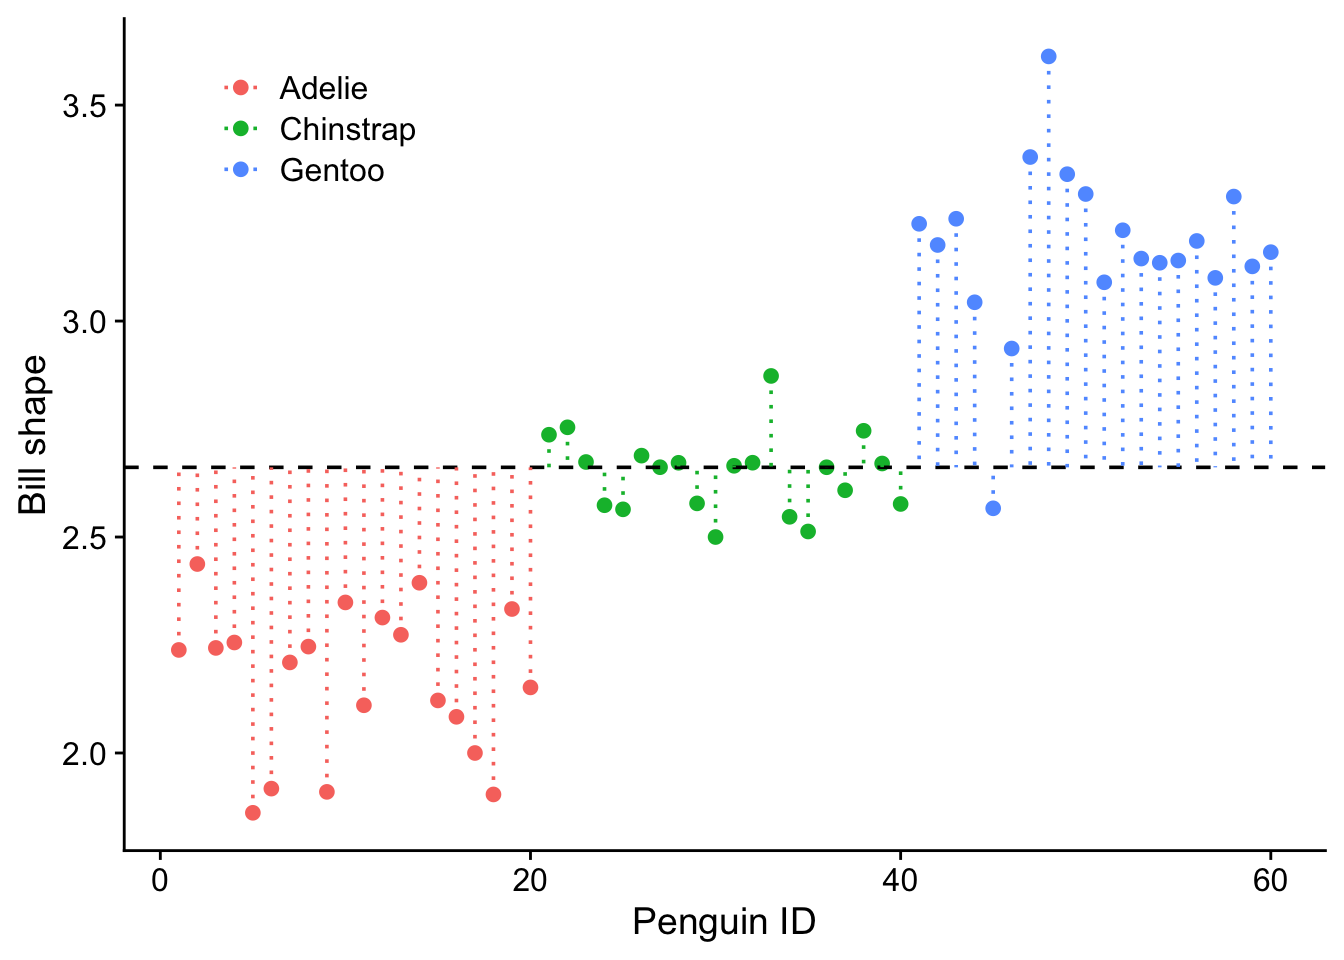
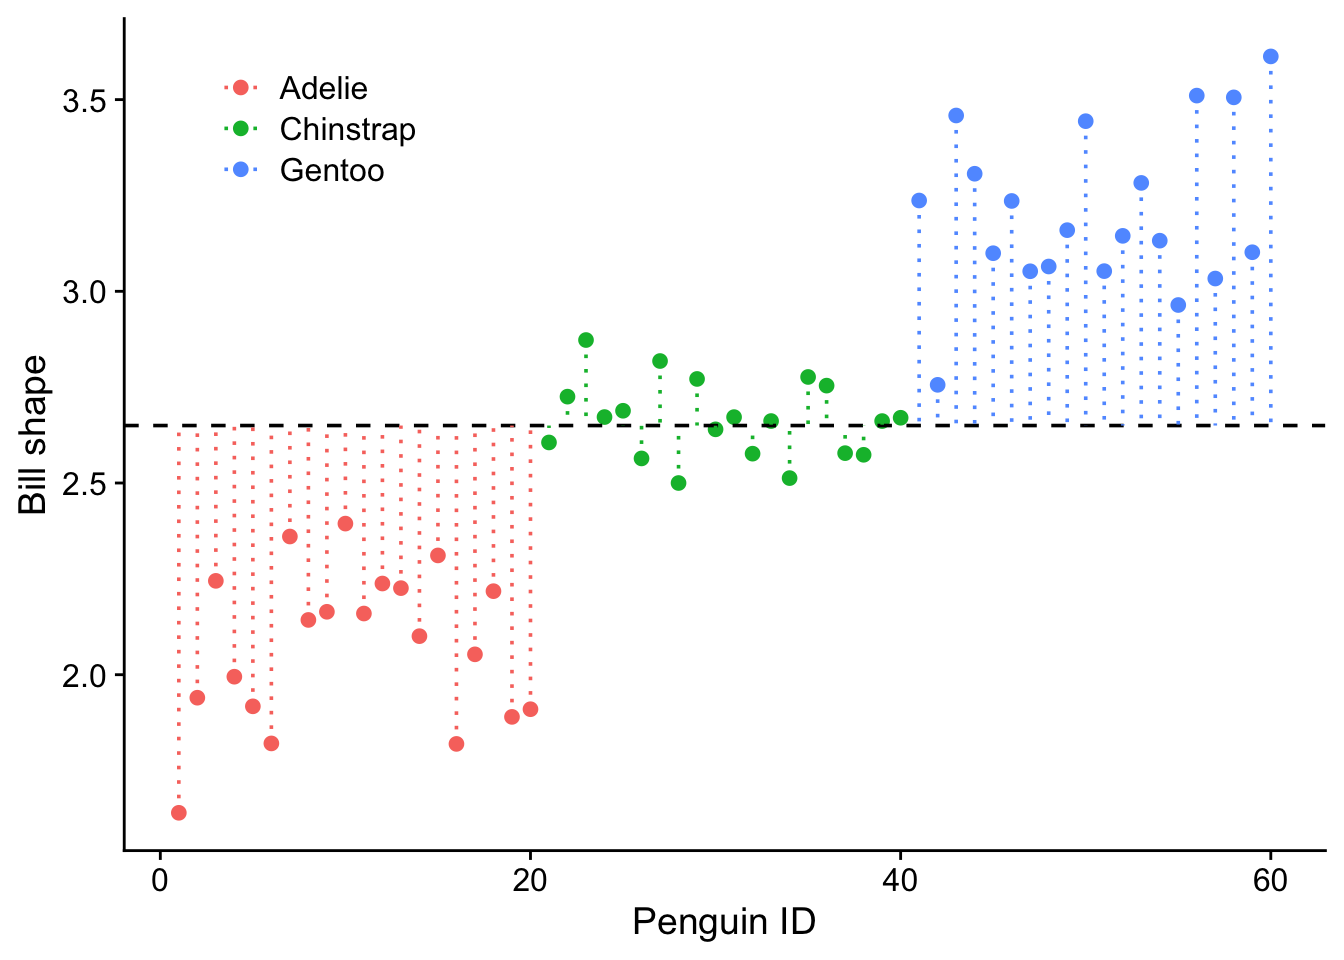
tweaks to F distribution explanation

diff --git a/docs/ANOVA_how_it_works_penguins.html b/docs/ANOVA_how_it_works_penguins.html
@@ -384,7 +384,7 @@ window.Quarto = {
 <p>First we calculate the ‘grand mean’, the mean of the bill shapes across all penguins in the data set:</p>
 <div class="cell">
 <div class="cell-output cell-output-stdout">
-<pre><code>[1] 2.661329</code></pre>
+<pre><code>[1] 2.649895</code></pre>
 </div>
 </div>
 <p><strong>Second step</strong>: calculate the group means</p>
@@ -394,9 +394,9 @@ window.Quarto = {
 <pre><code># A tibble: 3 × 5
   species       n pmean id_min id_max
   &lt;fct&gt;     &lt;int&gt; &lt;dbl&gt;  &lt;int&gt;  &lt;int&gt;
-1 Adelie       20  2.17      1     20
-2 Chinstrap    20  2.65     21     40
-3 Gentoo       20  3.17     41     60</code></pre>
+1 Adelie       20  2.08      1     20
+2 Chinstrap    20  2.66     21     40
+3 Gentoo       20  3.21     41     60</code></pre>
 </div>
 </div>
 </section>
@@ -409,7 +409,7 @@ window.Quarto = {
 <p>SST is a measure of the total variability of the data set.</p>
 <div class="cell">
 <div class="cell-output cell-output-stdout">
-<pre><code>[1] 11.53489</code></pre>
+<pre><code>[1] 14.64369</code></pre>
 </div>
 </div>
 <div class="cell">
@@ -461,19 +461,19 @@ Figure&nbsp;5.1: a) Each species has a mean value for beak shape, shown by the t
 <tbody>
 <tr class="odd">
 <td>SSE</td>
-<td>1.493</td>
+<td>1.857</td>
 </tr>
 <tr class="even">
 <td>SSG</td>
-<td>10.042</td>
+<td>12.786</td>
 </tr>
 <tr class="odd">
 <td>SST</td>
-<td>11.535</td>
+<td>14.644</td>
 </tr>
 <tr class="even">
 <td>SSE + SSG</td>
-<td>11.535 = SST</td>
+<td>14.643 = SST</td>
 </tr>
 </tbody>
 </table>
